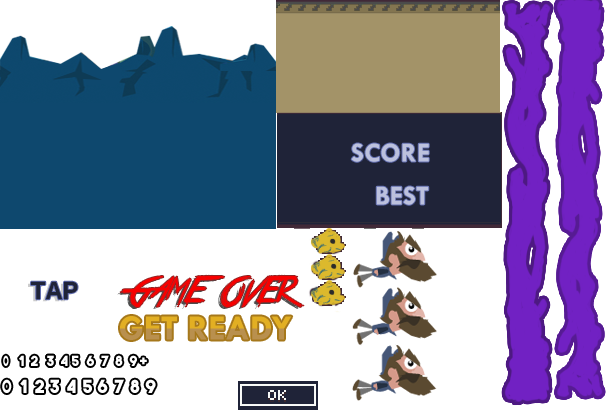
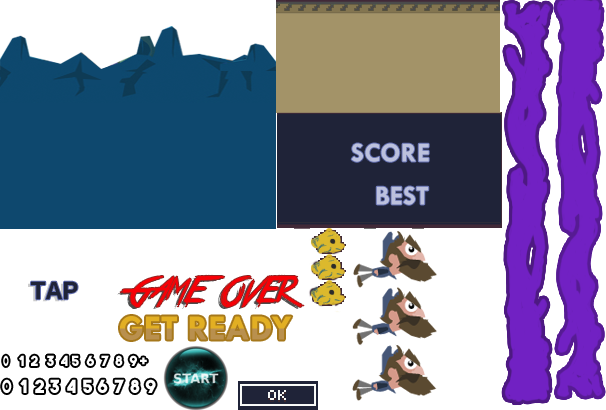
Added coral & score.

Changed region(s): [[0.2673, 0.8488, 0.3861, 1.0]]

diff --git a/flappyGame/js/flappyGame.js b/flappyGame/js/flappyGame.js
@@ -16,12 +16,13 @@ var
     width,
     height,
     foregroundPosition = 0,
+    gameScore = 0,
     frames = 0, // Counts the number of frames rendered.
 
 // The playable fish character
     fish,
-//corals,
-    gameStarted,
+    corals,
+
 // State vars
     currentState,
 
@@ -101,6 +102,16 @@ function Fish() {
             this.velocity = this._jump; // Set velocity to jump speed for correct rotation
         }
 
+        if (this.y <= 0) {
+
+
+            if (currentState === states.Game) {
+                currentState = states.Score;
+            }
+
+            this.velocity = this._jump; // Set velocity to jump speed for correct rotation
+        }
+
         // When fish lacks upward momentum increment the rotation angle
         if (this.velocity >= this._jump) {
             this.frame = 1;
@@ -139,8 +150,22 @@ function onpress(evt) {
     switch (currentState) {
 
         case states.Splash: // Start the game and update the fish velocity.
-            currentState = states.Game;
-            fish.jump();
+
+            // Get event position
+            var mouseX = evt.offsetX, mouseY = evt.offsetY;
+
+            if (mouseX == null || mouseY == null) {
+                mouseX = evt.touches[0].clientX;
+                mouseY = evt.touches[0].clientY;
+            }
+
+            // Check if click happens within the Start button.
+            if (startButton.x < mouseX && mouseX < startButton.x + startButton.width &&
+                startButton.y < mouseY && mouseY < startButton.y + startButton.height
+            ) {
+                currentState = states.Game;
+                fish.jump();
+            }
             break;
 
         case states.Game: // The game is in progress. Update fish velocity.
@@ -149,7 +174,7 @@ function onpress(evt) {
 
         case states.Score: // Change from score to splash state if event within okButton bounding box
             // Get event position
-            var mouseX = evt.offsetX, mouseY = evt.offsetY;
+            mouseX = evt.offsetX; mouseY = evt.offsetY;
 
             if (mouseX == null || mouseY == null) {
                 mouseX = evt.touches[0].clientX;
@@ -160,9 +185,9 @@ function onpress(evt) {
             if (okButton.x < mouseX && mouseX < okButton.x + okButton.width &&
                 okButton.y < mouseY && mouseY < okButton.y + okButton.height
             ) {
-                //corals.reset();
+                corals.reset();
                 currentState = states.Splash;
-                score = 0;
+                gameScore = 0;
             }
             break;
     }
@@ -215,6 +240,13 @@ function loadGraphics() {
             width: okButtonSprite.width,
             height: okButtonSprite.height
         };
+
+        startButton = {
+            x: (width - startButtonSprite.width) / 2,
+            y: height - 60,
+            width: startButtonSprite.width,
+            height: startButtonSprite.height
+        };
         gameLoop();
     };
 }
@@ -232,7 +264,7 @@ function main() {
 
     fish = new Fish();
 
-    //corals = new CoralCollection();
+    corals = new CoralCollection();
 
     loadGraphics();
 }
@@ -254,11 +286,11 @@ function update() {
     frames++;
 
     if (currentState !== states.Score) {
-        foregroundPosition = (foregroundPosition - 2) % 14; // Move left two px each frame. Wrap every 14px.
+        foregroundPosition = (foregroundPosition - 2) % 14; // 14 should change to the width of canvas, if you change it.
     }
 
     if (currentState === states.Game) {
-        //corals.update();
+        corals.update();
     }
 
     fish.update();
@@ -275,7 +307,7 @@ function render() {
     backgroundSprite.draw(renderingContext, 0, height - backgroundSprite.height);
     backgroundSprite.draw(renderingContext, backgroundSprite.width, height - backgroundSprite.height);
 
-    //corals.draw(renderingContext);
+    corals.draw(renderingContext);
     fish.draw(renderingContext);
 
     // Draw foreground sprites
@@ -283,9 +315,24 @@ function render() {
     foregroundSprite.draw(renderingContext, foregroundPosition + foregroundSprite.width, height - foregroundSprite.height);
 
     //draw splash screen stuff
-    if(!gameStarted) {
+    if(currentState == states.Splash) {
         splash();
     }
+
+    //draw the OK button & the score
+    if(currentState == states.Score) {
+        showScore();
+    }
+}
+
+function showScore() {
+    okButtonSprite.draw(renderingContext, ((width - okButtonSprite.width) / 2), (height - 214));
+
+    renderingContext.fillStyle = "white";
+    renderingContext.font = "30px Arial";
+    renderingContext.fillText("You killed Dan! Score: ", 50, 100);
+    renderingContext.fillText(gameScore, (width-20)/2, 150);
+    renderingContext.fillStyle = backgroundSprite.color;
 }
 
 function splash() {
@@ -293,9 +340,99 @@ function splash() {
     renderingContext.font = "30px Arial";
     renderingContext.fillText("Click button to start", 50, 320);
 
-    okButtonSprite.draw(renderingContext, 150, 350);
+    startButtonSprite.draw(renderingContext, 150, 350);
 
     renderingContext.fillStyle = backgroundSprite.color;
 }
 
+function CoralCollection() {
+    this._corals = [];
 
+    /**
+     * Empty corals array
+     */
+    this.reset = function () {
+        this._corals = [];
+    };
+
+    /**
+     * Creates and adds a new Coral to the game.
+     */
+    this.add = function () {
+        this._corals.push(new Coral()); // Create and push coral to array
+    };
+
+    /**
+     * Update the position of existing corals and add new corals when necessary.
+     */
+    this.update = function () {
+        if (frames % 100 === 0) { // Add a new coral to the game every 100 frames.
+            this.add();
+        }
+
+        for (var i = 0, len = this._corals.length; i < len; i++) { // Iterate through the array of corals and update each.
+            var coral = this._corals[i]; // The current coral.
+
+            if (i === 0) { // If this is the leftmost coral, it is the only coral that the fish can collide with . . .
+                coral.detectCollision(); // . . . so, determine if the fish has collided with this leftmost coral.
+                //gameScore++; //add 1 to the score.
+            }
+
+            coral.x -= 2; // Each frame, move each coral two pixels to the left. Higher/lower values change the movement speed.
+            if (coral.x < -coral.width) { // If the coral has moved off screen . . .
+                gameScore++;
+                this._corals.splice(i, 1); // . . . remove it.
+                i--;
+                len--;
+            }
+        }
+    };
+
+    /**
+     * Draw all corals to canvas context.
+     */
+    this.draw = function () {
+        for (var i = 0, len = this._corals.length; i < len; i++) {
+            var coral = this._corals[i];
+            coral.draw();
+        }
+    };
+}
+
+/**
+ * The Coral class. Creates instances of Coral.
+ */
+function Coral() {
+    this.x = 500;
+    this.y = height - (bottomCoralSprite.height + foregroundSprite.height + 120 + 200 * Math.random());
+    this.width = bottomCoralSprite.width;
+    this.height = bottomCoralSprite.height;
+
+    /**
+     * Determines if the fish has collided with the Coral.
+     * Calculates x/y difference and use normal vector length calculation to determine
+     */
+    this.detectCollision = function () {
+// intersection
+        var cx = Math.min(Math.max(fish.x, this.x), this.x + this.width);
+        var cy1 = Math.min(Math.max(fish.y, this.y), this.y + this.height);
+        var cy2 = Math.min(Math.max(fish.y, this.y + this.height + 80), this.y + 2 * this.height + 80);
+// Closest difference
+        var dx = fish.x - cx;
+        var dy1 = fish.y - cy1;
+        var dy2 = fish.y - cy2;
+// Vector length
+        var d1 = dx * dx + dy1 * dy1;
+        var d2 = dx * dx + dy2 * dy2;
+        var r = fish.radius * fish.radius;
+// Determine intersection
+        if (r > d1 || r > d2) {
+            currentState = states.Score;
+        }
+    };
+
+    this.draw = function () {
+        bottomCoralSprite.draw(renderingContext, this.x, this.y);
+        topCoralSprite.draw(renderingContext, this.x, this.y + 80 + this.height);
+    }
+}

diff --git a/flappyGame/js/sprites.js b/flappyGame/js/sprites.js
@@ -9,6 +9,7 @@ var
     scoreSprite,
     splashScreenSprite,
     okButtonSprite,
+    startButtonSprite,
     smallNumberSprite,
     largeNumberSprite;
 
@@ -69,5 +70,7 @@ function initSprites(img) {
 
     scoreSprite = new Sprite(img, 138, 56, 113, 58);
     splashScreenSprite = new Sprite(img, 0, 114, 59, 49);
+
+    startButtonSprite = new Sprite(img, 80, 172, 34, 34)
 
 }
